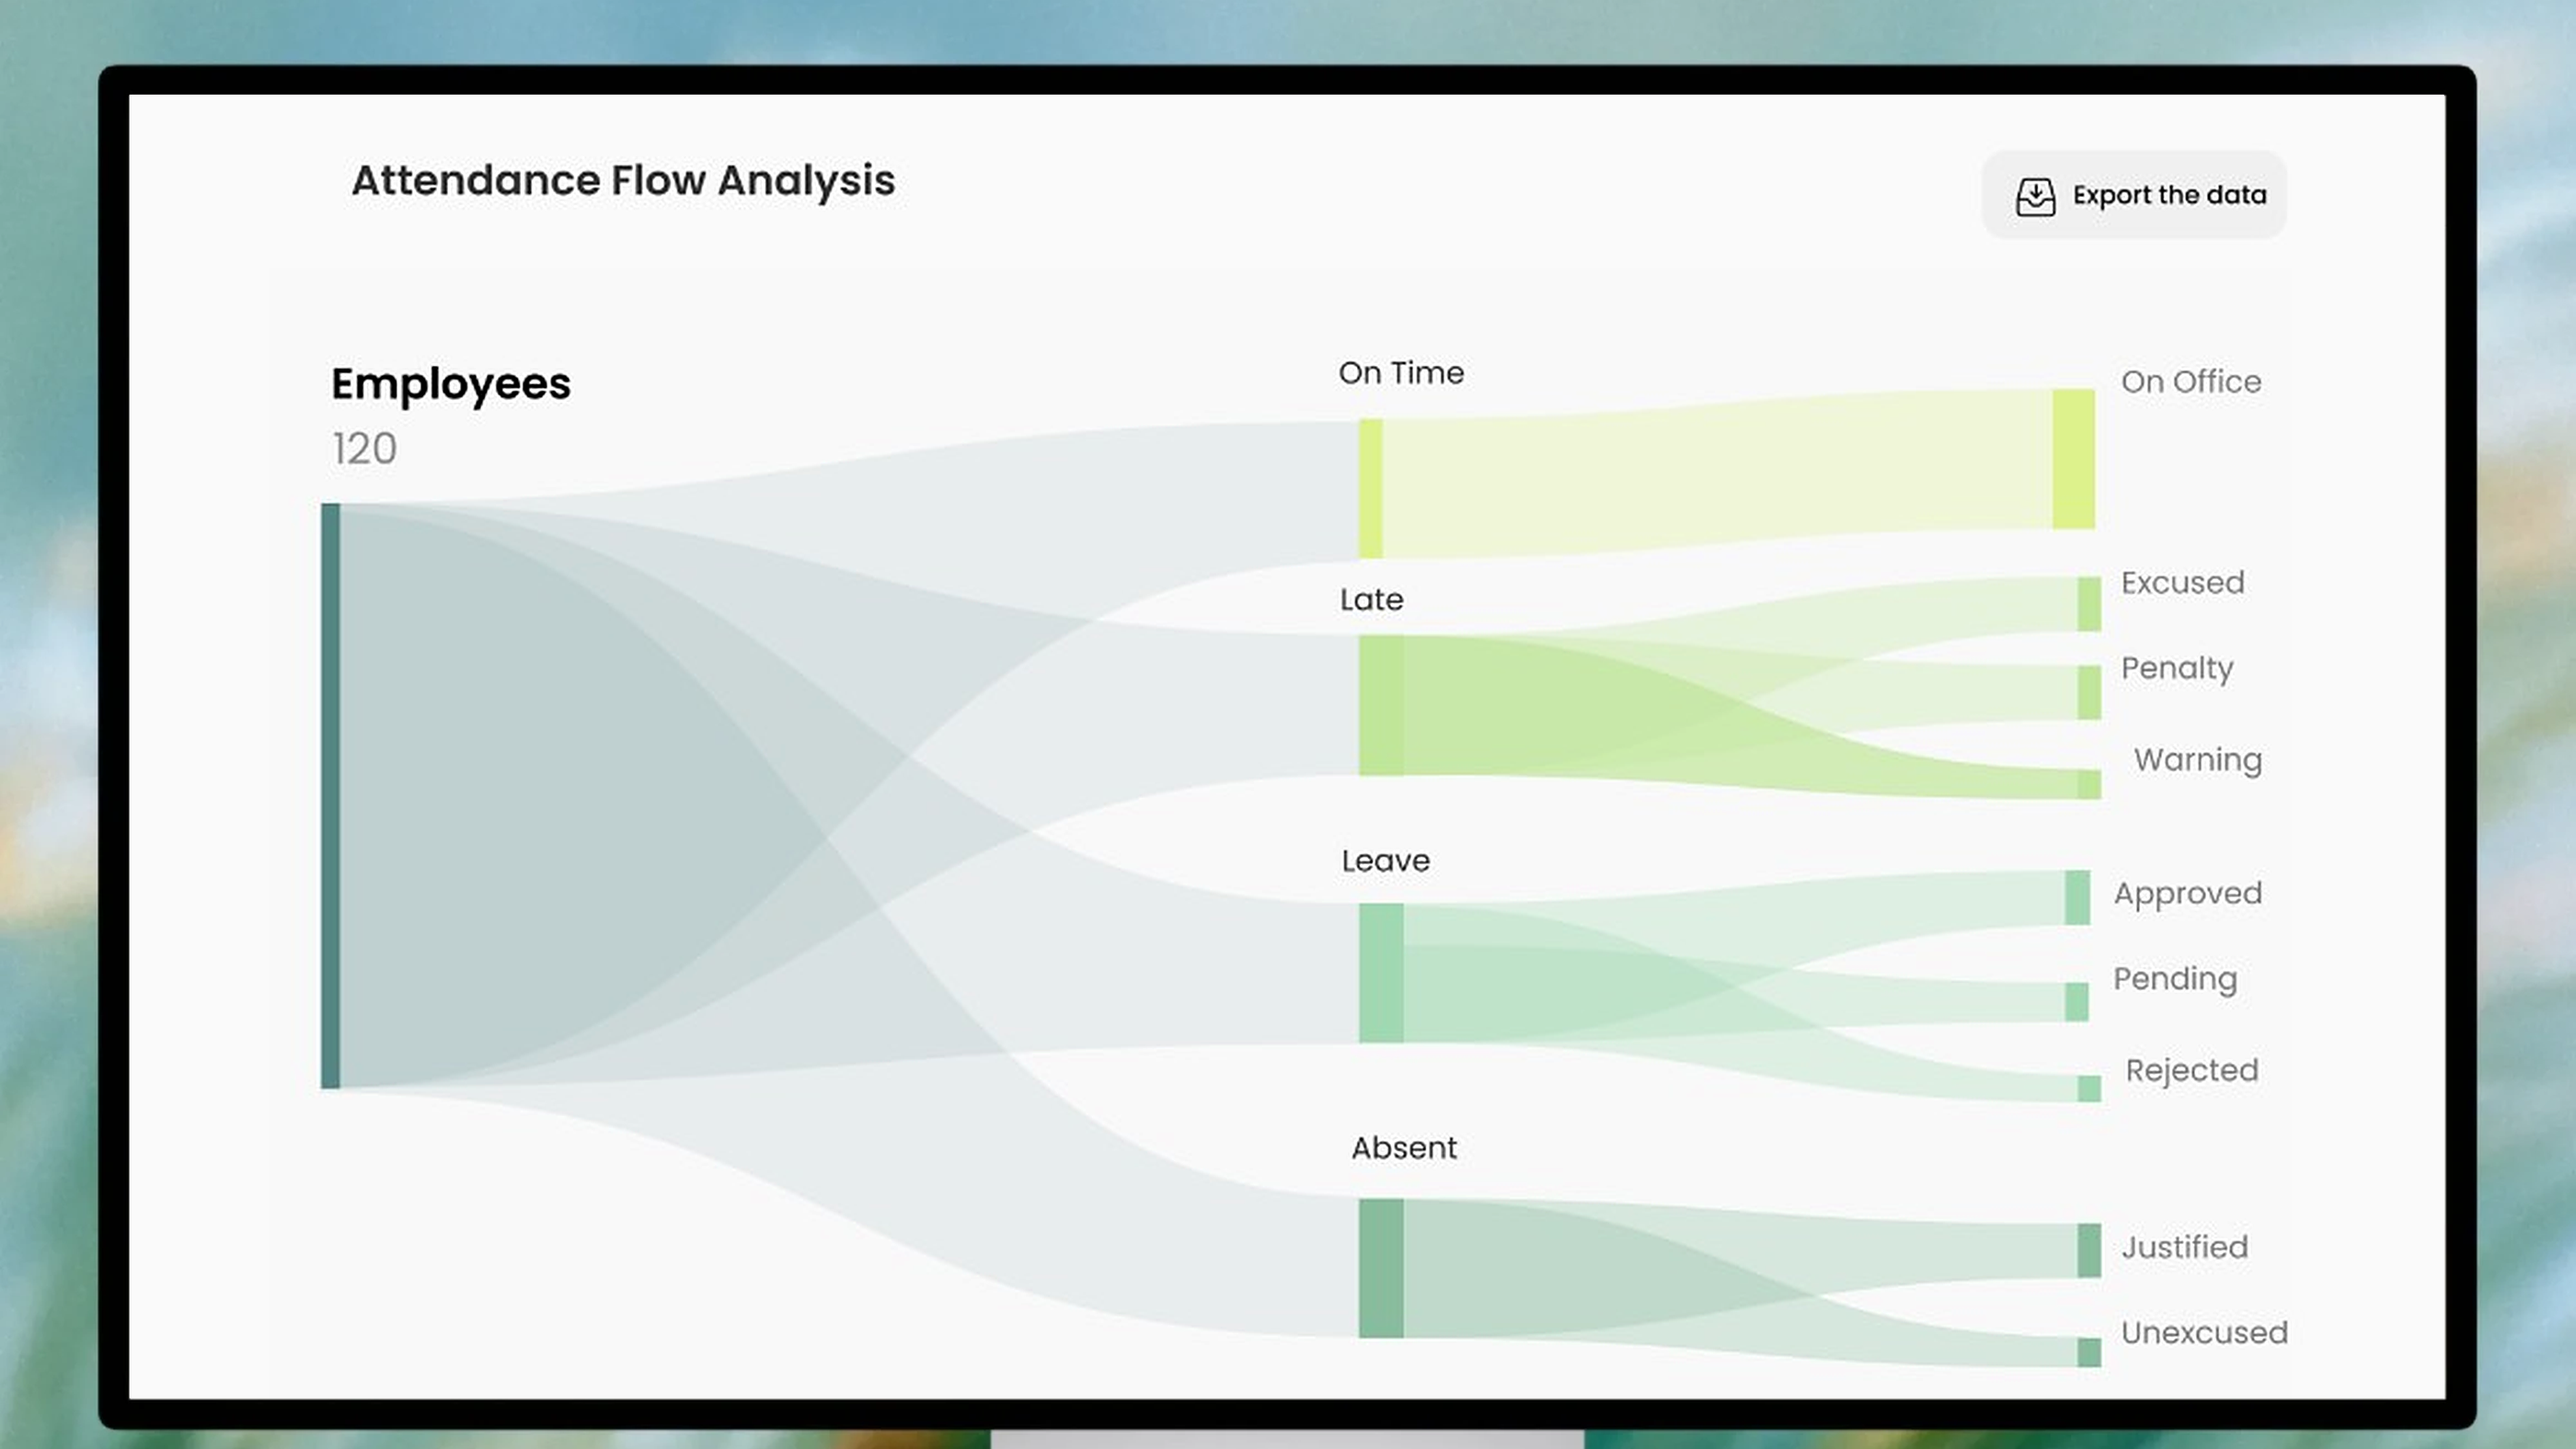
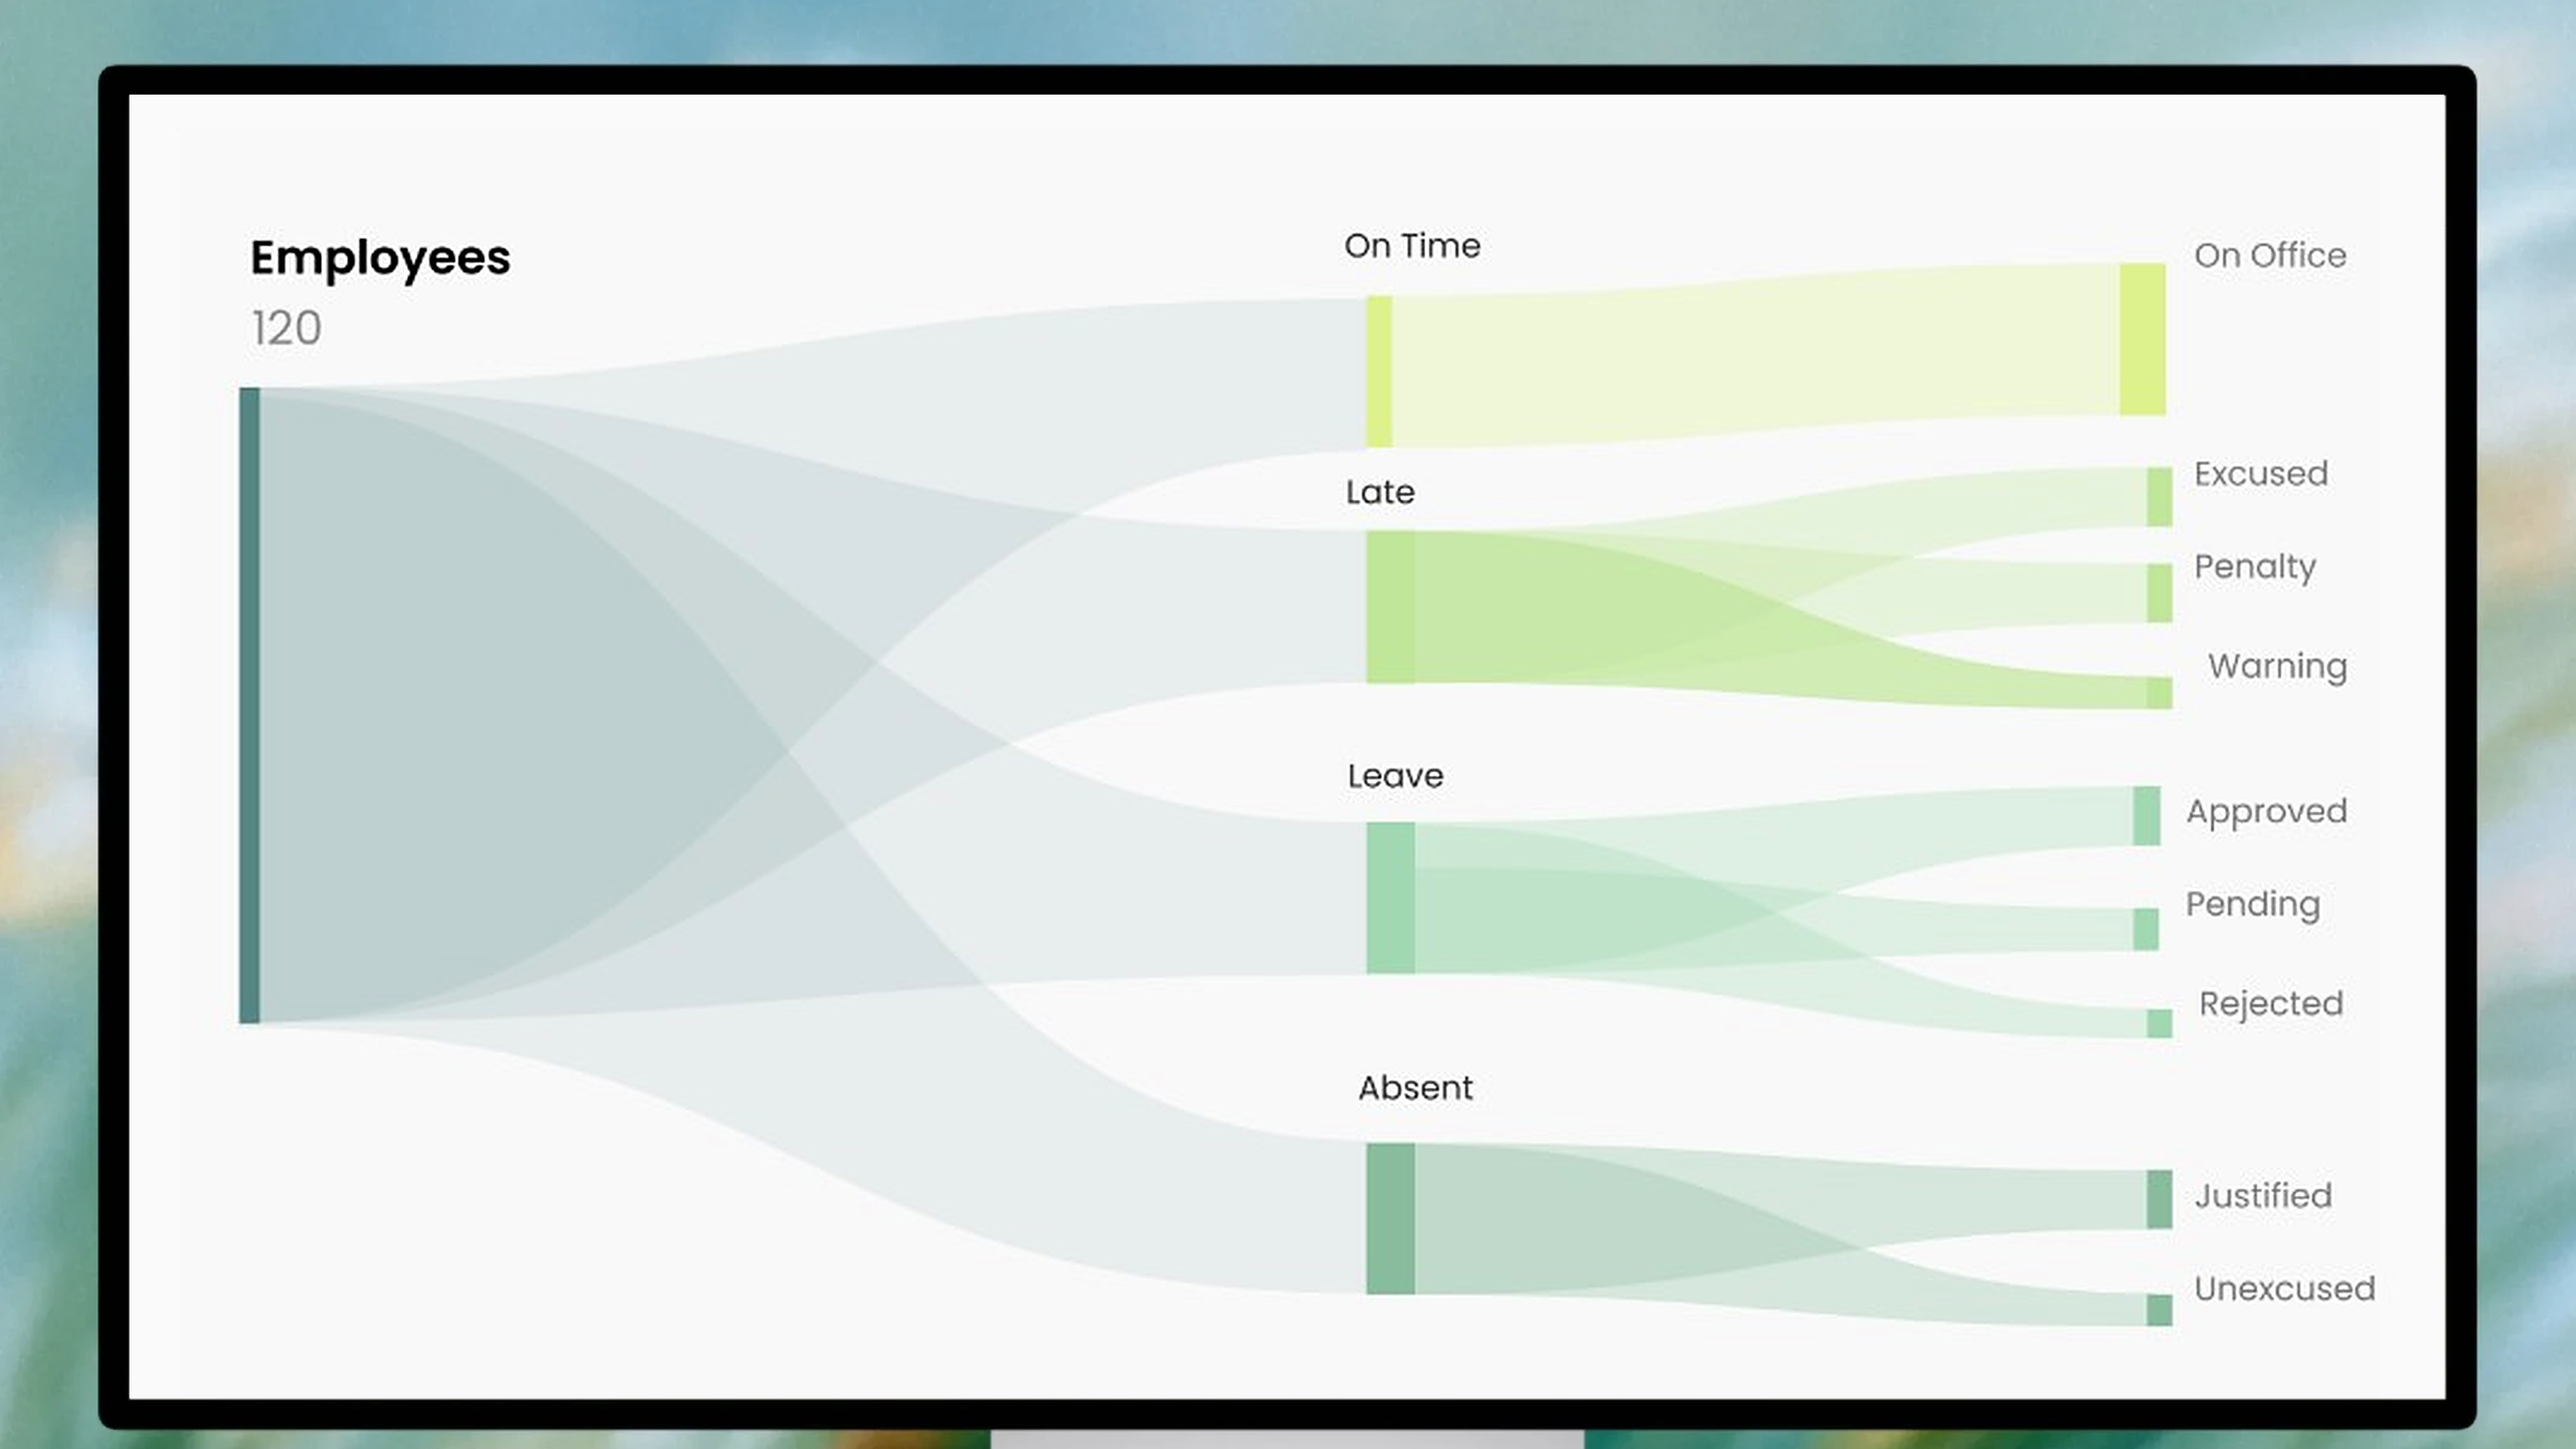
Attendees monitor: flow chart only, title removed, fills the screen
Claude-Session: https://claude.ai/code/session_01FdYAnoP1AuAPuCnLWf7gdc

Changed region(s): [[0.5282, 0.1244, 0.9321, 0.9638], [0.0932, 0.0933, 0.3418, 0.7773], [0.7146, 0.6529, 0.7457, 0.684]]

diff --git a/behance-cover/mockups/set36.py b/behance-cover/mockups/set36.py
@@ -6,12 +6,11 @@ I = '/tmp/claude-0/-home-user-claude-Ai-website-1/fd49522e-f0ff-52ed-b6c7-08cca4
 L, T, R, B = 100.5, 123.5, 1897.5, 1135.5; TOP, BOT = 340, 1112   # from just above Attendance Flow Analysis down to the chart's end
 base = Image.open(I + '251.webp').convert('RGB'); page = Image.open(I + '252.jpg').convert('RGB')
 bg = page.getpixel((page.width // 2, page.height - 5)); asp = (R - L) / (B - T)
-# fill the screen: keep the title row and the whole chart, leave out the filter / control rows
-# between them (rows 418-600), so the section is almost exactly the screen's shape
-X0 = 112
-top_part = page.crop((X0, TOP, page.width, 418)); chart = page.crop((X0, 600, page.width, BOT))
-h = top_part.height + chart.height; w = round(h * asp); band = Image.new('RGB', (w, h), bg)
-ox = (w - top_part.width) // 2; band.paste(top_part, (ox, 0)); band.paste(chart, (ox, top_part.height))
+# chart only (no section title or controls), filling the screen edge to edge at full content width
+X0 = 112; w = page.width - X0; h = round(w / asp); y0 = 600 - (h - 512) // 2   # chart rows 600-1112, centred
+band = page.crop((X0, y0, page.width, y0 + h))
+from PIL import ImageDraw
+ImageDraw.Draw(band).rectangle((0, 0, band.width, 598 - y0), fill=bg)   # hide the divider line above the chart
 F = 2; W, H = 4000, 3000; out = base.resize((W, H), Image.LANCZOS)
 cw, ch = round((R - L) * F), round((B - T) * F); k = cw / w
 snap = band.resize((cw, ch), Image.LANCZOS).point(lambda v: round(255 * (v / 255) ** 1.08)).filter(ImageFilter.UnsharpMask(radius=0.7 * k, percent=70, threshold=2))
